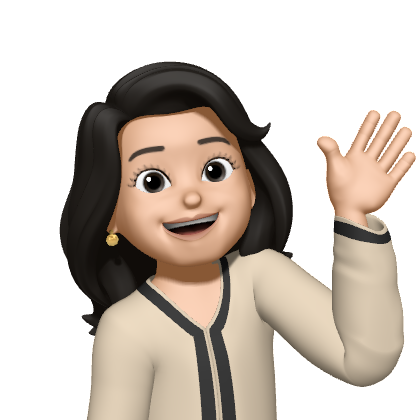
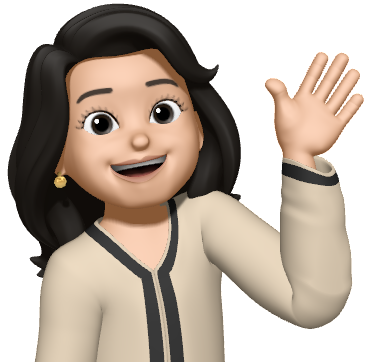
test

diff --git a/.ipynb_checkpoints/app-checkpoint.py b/.ipynb_checkpoints/app-checkpoint.py
@@ -55,7 +55,7 @@ with tab_aboutus:
     
     col1, col2, col3, col4 = st.columns(4, gap="medium")
     with col1:
-        st.image('logo.png',  use_column_width=True)
+        st.image('memoji.png',  use_column_width=True)
         st.markdown ("Seorin Kim <\n> seorin.kim@student.kuleuven.be")
     with col2:
         st.image('logo.png',  use_column_width=True)

diff --git a/app.py b/app.py
@@ -55,7 +55,7 @@ with tab_aboutus:
     
     col1, col2, col3, col4 = st.columns(4, gap="medium")
     with col1:
-        st.image('logo.png',  use_column_width=True)
+        st.image('memoji.png',  use_column_width=True)
         st.markdown ("Seorin Kim <\n> seorin.kim@student.kuleuven.be")
     with col2:
         st.image('logo.png',  use_column_width=True)
